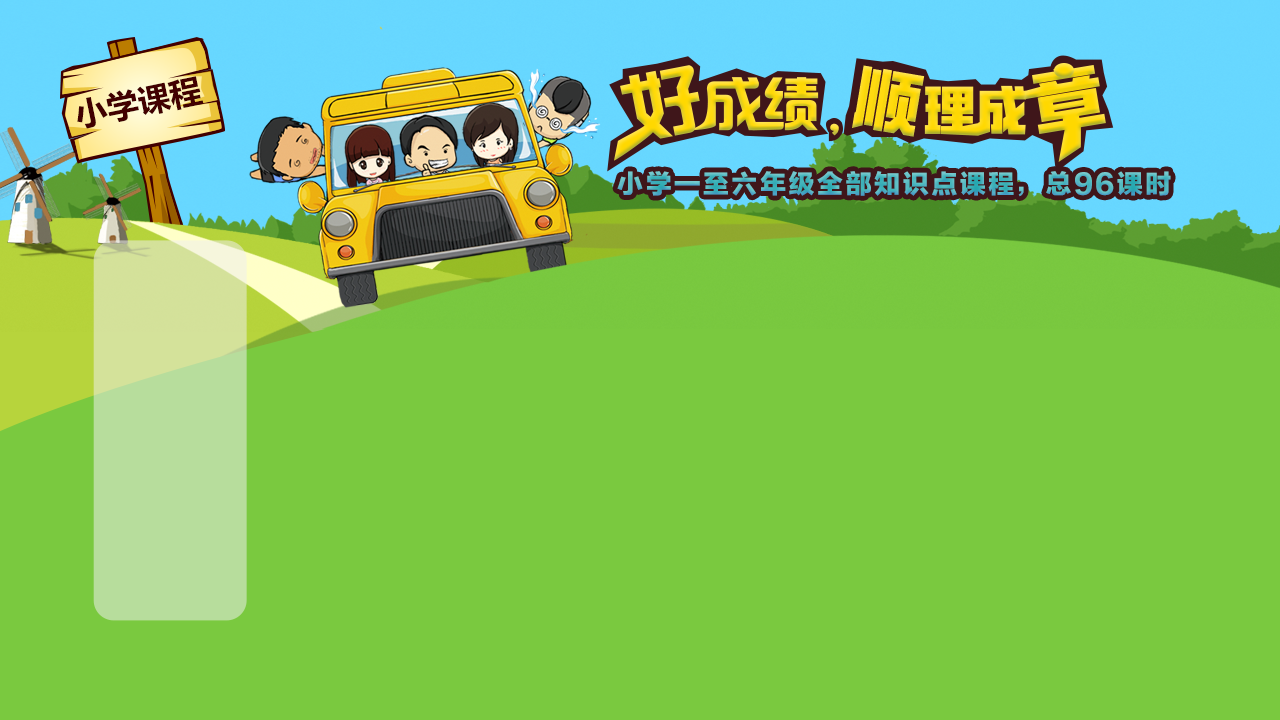
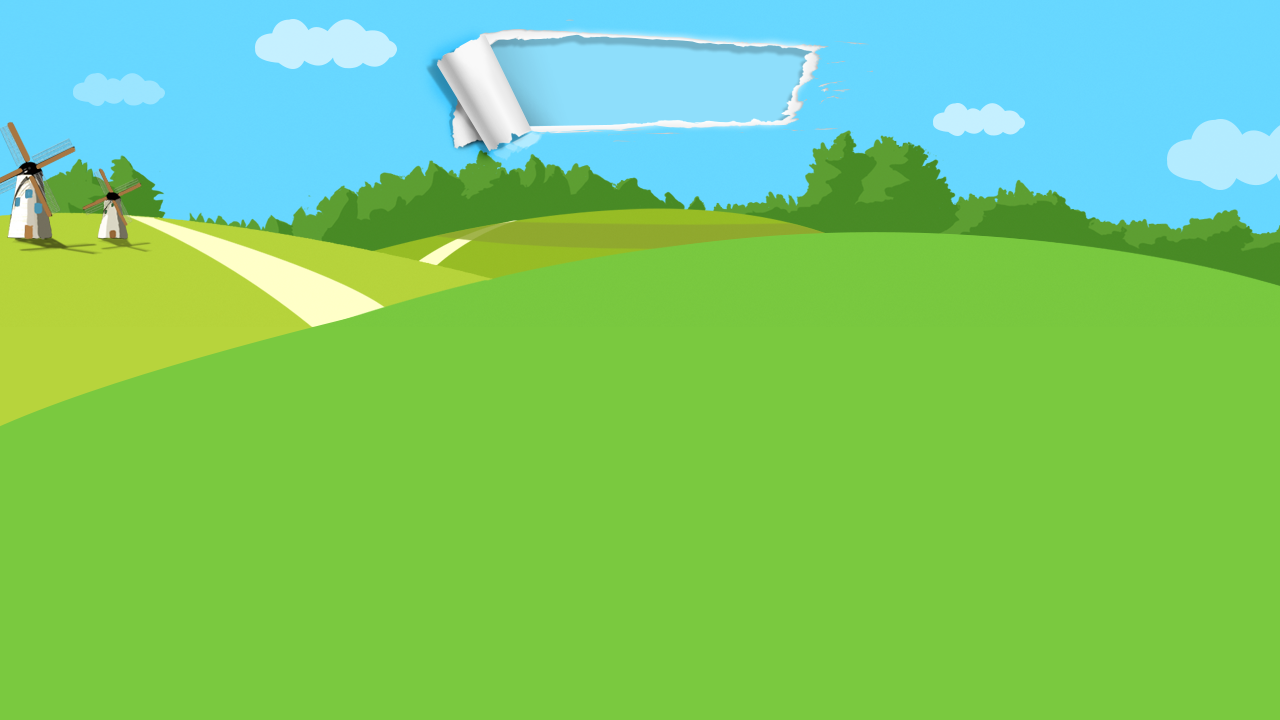
创建小学学科页面

diff --git a/view/primary_list.html b/view/primary_list.html
@@ -5,21 +5,22 @@
     <title>山西IPTV-小学</title>
     <meta name="viewport" content="width=device-width,initial-scale=1.0,maximum-scale=1.0,user-scalable=no"/>
     <meta content="telephone=no" name="format-detection">
-    <link href="sass/base.css" rel="stylesheet">
-    <link href="sass/primary_list.css" rel="stylesheet">
+    <link href="../sass/base.css" rel="stylesheet">
+    <link href="../sass/primary_list.css" rel="stylesheet">
+    <script src="../lib/jquery-1.9.1.js"></script>
 </head>
 <body id="content">
-    <img id="bg-img" src="assets/images/primary/primary_list_background.png"/>
+    <img id="bg-img" src="../assets/images/primary/primary_list_background.png"/>
     <div id="main-content">
         <div id="main-content-left">
         </div>
         <div id="main-content-right">
-            <div class="subject module"><img class="subject-img" src="assets/images/primary/geography.png"></div>
-            <div class="subject module"><img class="subject-img" src="assets/images/primary/politics.png"></div>
-            <div class="subject module"><img class="subject-img" src="assets/images/primary/history.png"></div>
-            <div class="subject module"><img class="subject-img" src="assets/images/primary/biology.png"></div>
-            <div class="subject module"><img class="subject-img" src="assets/images/primary/chemistry.png"></div>
-            <div class="subject module"><img class="subject-img" src="assets/images/primary/physics.png"></div>
+            <div class="subject module"><img class="subject-img" src="../assets/images/primary/geography.png"></div>
+            <div class="subject module"><img class="subject-img" src="../assets/images/primary/politics.png"></div>
+            <div class="subject module"><img class="subject-img" src="../assets/images/primary/history.png"></div>
+            <div class="subject module"><img class="subject-img" src="../assets/images/primary/biology.png"></div>
+            <div class="subject module"><img class="subject-img" src="../assets/images/primary/chemistry.png"></div>
+            <div class="subject module"><img class="subject-img" src="../assets/images/primary/physics.png"></div>
         </div>
     </div>
 </body>

diff --git a/sass/primary_subject.css b/sass/primary_subject.css
@@ -1,0 +1,94 @@
+#subject-name{
+    display: inline-block;
+    text-align: center;
+    font-family: AdobeHeitiStd-Regular;
+    font-size:48px;
+    line-height: 48px;
+    color: #543110;
+    position: absolute;
+    width: 1113px;
+    margin-top: 49px;
+}
+#main-content{
+    margin-top: 172px;
+    display: inline-flex;
+    height: 493px;
+    width: 1113px;
+    position: relative;
+    flex-direction: row;
+    justify-content: space-between;
+}
+#main-content-left{
+    height: 493px;
+    width: 442px;
+    border-radius: 12px;
+    overflow-x:visible;
+    background: #fff;
+}
+#main-content-right {
+    height: 493px;
+    width: 645px;
+    border-radius: 12px;
+    background: #fff;
+}
+#volume-list{
+    display: inline-flex;
+    padding: 0 20%;
+    width: 100%;
+    box-sizing: border-box;
+    height: 53px;
+}
+#volume-list li{
+    font-family: "Microsoft YaHei";
+    font-size: 26px;
+    color: #333;
+    line-height: 53px;
+    font-weight:bold;
+    width: 50%;
+    flex-direction: row;
+    justify-content: space-between;
+    cursor: pointer;
+}
+#volume-list .active{
+    background: url("../assets/images/primary/volume_active.png");
+    background-size: 100%;
+    background-position: center center;
+}
+#class-list{
+    margin-top: 23px;
+    border-top:1px solid #e1e1e1;
+}
+#class-list .class-item{
+    line-height: 51px;
+    font-size:26px;
+    width: 458px;
+}
+#class-list .class-item span{
+    display: inline-block;
+    width: 442px;
+    line-height: 51px;
+    font-size:26px;
+    text-align: left;
+    text-indent: 26px;
+    cursor: pointer;
+    border-bottom:1px solid #e1e1e1;
+    margin-left: -13px;
+}
+#class-list .active{
+    background: url("../assets/images/primary/subject_arrow.png");
+    background-size: 100%;
+    background-position: center center;
+}
+.next-class-page{
+    display: inline-block;
+    width: 62px;
+    height:59px;
+    cursor: pointer;
+    background: url("../assets/images/primary/arrow_down.png") no-repeat center;
+}
+.next-class-page:hover{
+    background: url("../assets/images/primary/arrow_down_active.png");
+}
+.next-class-page:active{
+    background: url("../assets/images/primary/arrow_down_active.png");
+}

diff --git a/view/primary_subject.html b/view/primary_subject.html
@@ -3,8 +3,34 @@
 <head>
     <meta charset="UTF-8">
     <title>山西IPTV-小学</title>
+    <meta name="viewport" content="width=device-width,initial-scale=1.0,maximum-scale=1.0,user-scalable=no"/>
+    <meta content="telephone=no" name="format-detection">
+    <link href="../sass/base.css" rel="stylesheet">
+    <link href="../sass/primary_subject.css" rel="stylesheet">
+    <script src="../lib/jquery-1.9.1.js"></script>
 </head>
-<body>
-
+<body id="content">
+<img id="bg-img" src="../assets/images/primary/primary_subject_background.png"/>
+<span id="subject-name">一年级语文</span>
+<div id="main-content">
+    <div id="main-content-left">
+        <ul id="volume-list">
+            <li class="volume-item active">上册</li>
+            <li class="volume-item ">下册</li>
+        </ul>
+        <ul id="class-list">
+            <li class="class-item active"><span>语言运用（初一上）</span></li>
+            <li class="class-item"><span>阅读（初一上）</span></li>
+            <li class="class-item"><span>阅读（初一上）</span></li>
+            <li class="class-item"><span>阅读（初一上）</span></li>
+            <li class="class-item"><span>阅读（初一上）</span></li>
+            <li class="class-item"><span>阅读（初一上）</span></li>
+            <li class="class-item"><span>阅读（初一上）</span></li>
+        </ul>
+        <span class="next-class-page"></span>
+    </div>
+    <div id="main-content-right">
+    </div>
+</div>
 </body>
 </html>
